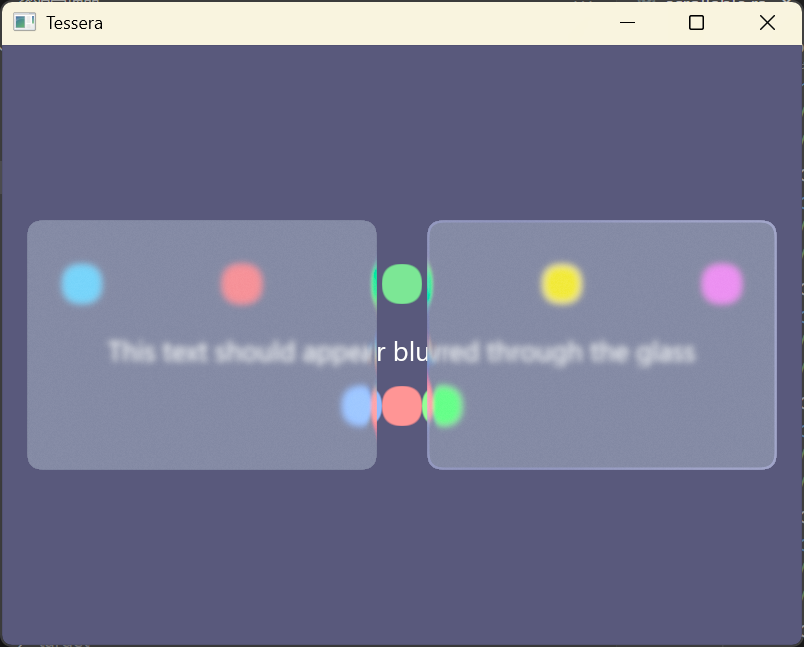
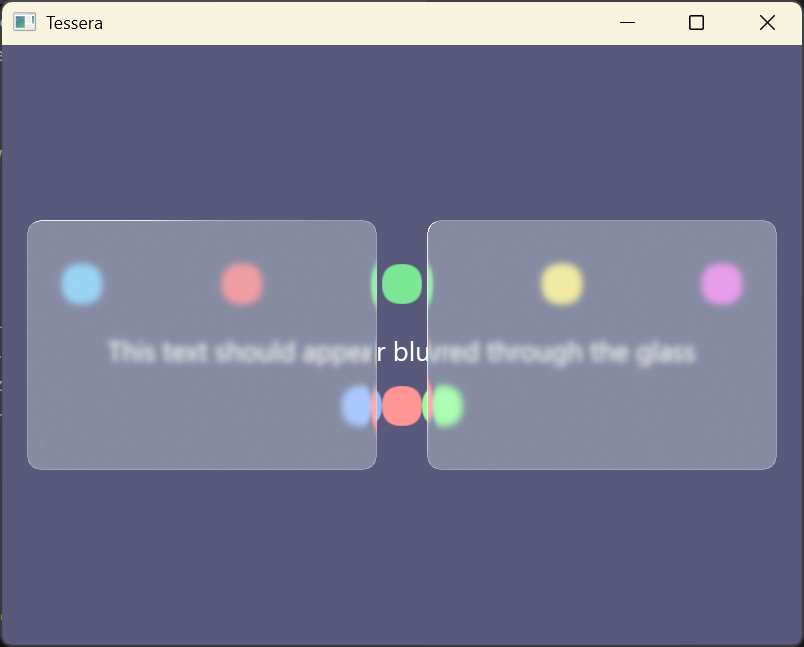
feat(fluid_glass): add contrast property and set default tint to transparent
Adds a `contrast` property to the `FluidGlass` component, allowing for adjustment of the background contrast to improve content visibility.

The default `tint_color` is changed from a semi-transparent gray to `Color::TRANSPARENT`. This makes the component un-tinted by default, providing a more neutral glass effect out of the box.

BREAKING CHANGE: The default `tint_color` for `FluidGlass` is now transparent instead of gray. Existing usages relying on the default tint will appear different. To restore the previous appearance, explicitly set `tint_color: Color::new(0.5, 0.5, 0.5, 0.1)`.

diff --git a/tessera-ui-basic-components/src/fluid_glass.rs b/tessera-ui-basic-components/src/fluid_glass.rs
@@ -45,7 +45,7 @@ pub struct FluidGlassArgs {
     /// The alpha channel uniquely and directly controls the tint strength.
     /// `A=0.0` means no tint (100% background visibility).
     /// `A=1.0` means full tint (100% color visibility).
-    #[builder(default = "Color::new(0.5, 0.5, 0.5, 0.1)")]
+    #[builder(default = "Color::TRANSPARENT")]
     pub tint_color: Color,
     /// The shape of the component, an enum that can be `RoundedRectangle` or `Ellipse`.
     #[builder(default = "Shape::RoundedRectangle { corner_radius: 25.0, g2_k_value: 3.0 }")]

diff --git a/example/examples/boxed_showcase.rs b/example/examples/boxed_showcase.rs
@@ -65,6 +65,7 @@ fn main() -> Result<(), Box<dyn std::error::Error>> {
                         .blur_radius(5.0)
                         .width(DimensionValue::Fixed(Dp(500.0).into()))
                         .height(DimensionValue::Fixed(Dp(500.0).into()))
+                        .contrast(1.5)
                         .build()
                         .unwrap(),
                     None,
